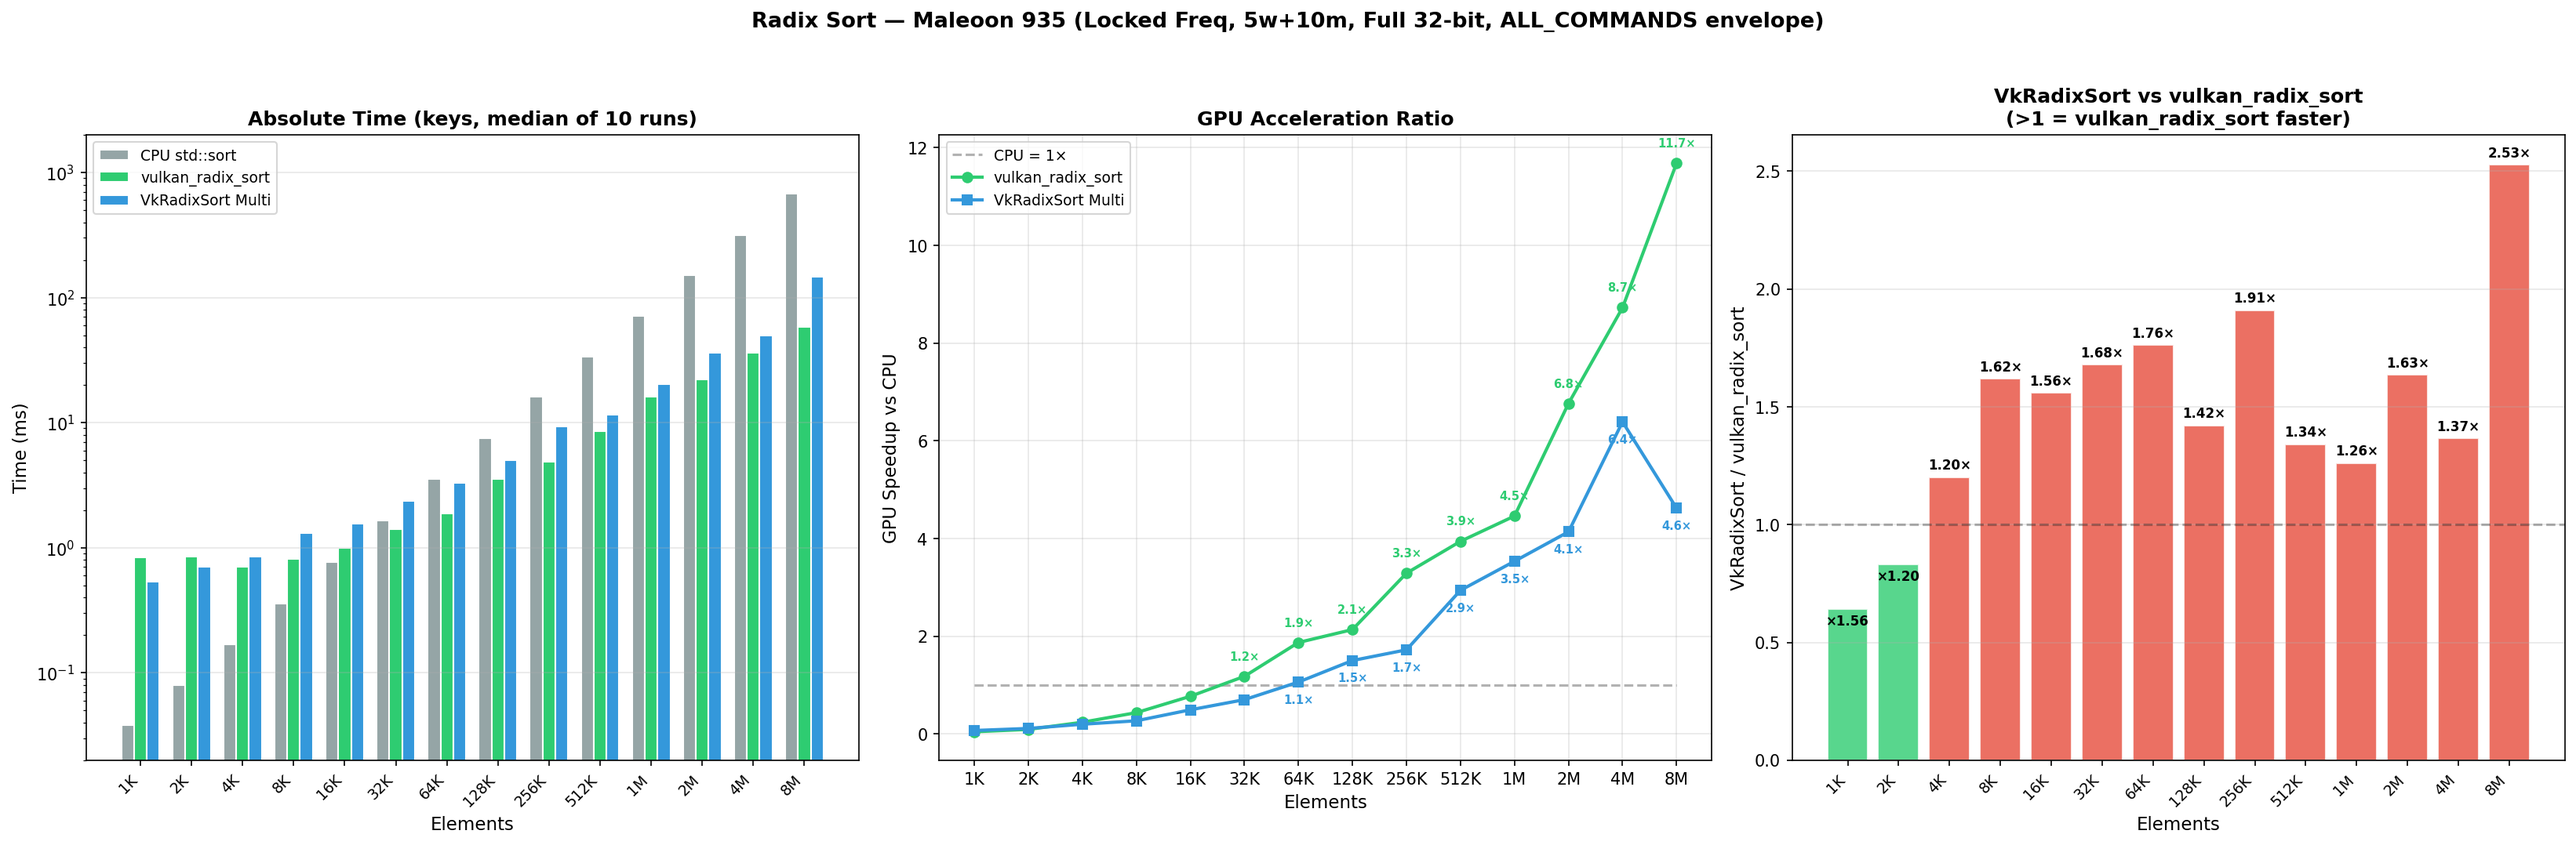
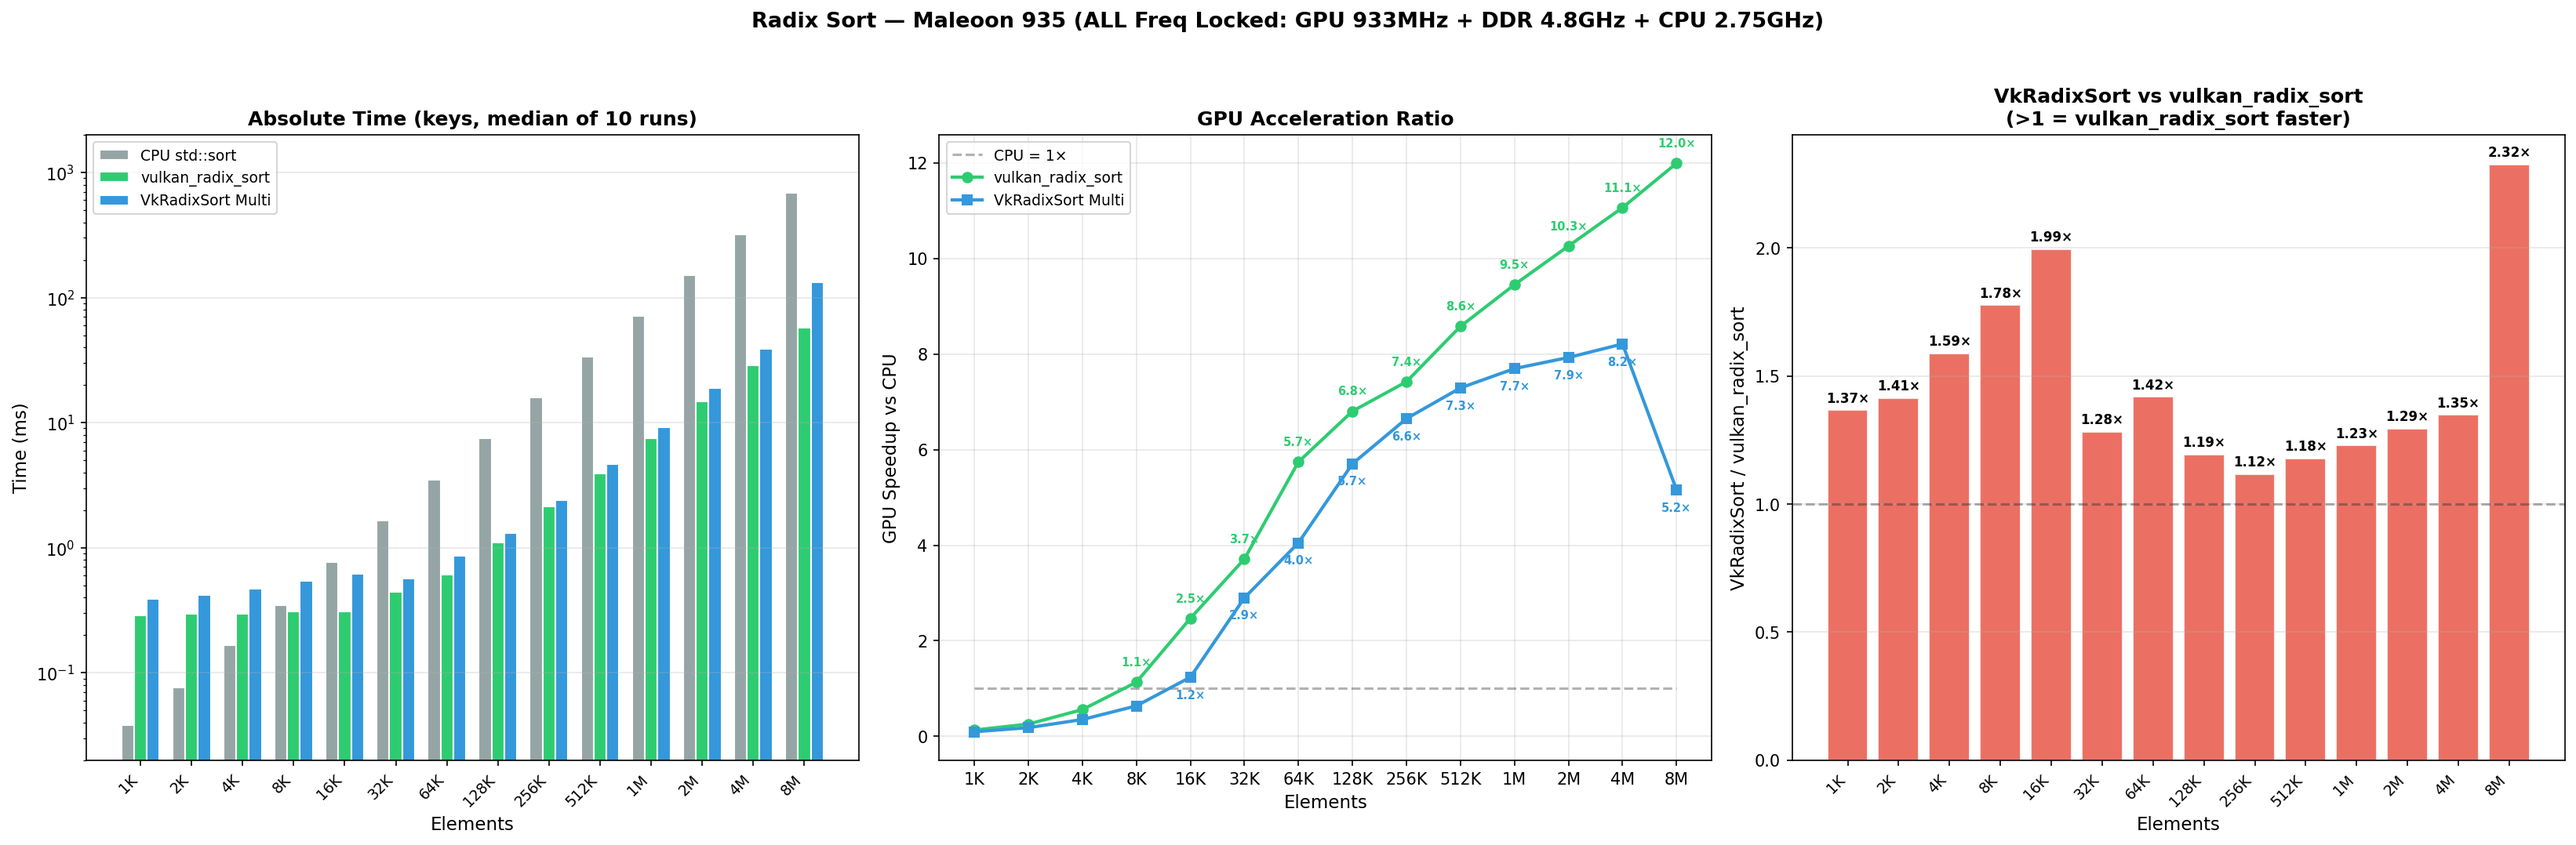
All-freq-locked benchmark: GPU 933MHz + DDR 4.8GHz + CPU 2.75GHz
- GPU was running at 235 MHz (25% of max) under DVFS auto!
- DDR was at 1066 MHz (22% of max)
- Locking all DVFS domains: vrs 1M improved 2.1×, vkr 1M improved 2.2×
- vrs GPU latency floor dropped from 0.7ms to 0.29ms
- Crossover dropped from 32K to 8K (vrs) and 64K to 16K (vkr)
- vkr 8M degradation (3.43×) confirmed algorithmic, not DVFS
- vrs reaches 147 MItems/s at 8M, 11.99× vs CPU

diff --git a/BENCHMARK_RESULTS.md b/BENCHMARK_RESULTS.md
@@ -1,6 +1,6 @@
 # Radix Sort Benchmark Results — Maleoon 935
 
-Date: 2026-06-10
+Date: 2026-06-11
 
 ## Test Environment
 
@@ -8,13 +8,30 @@ Date: 2026-06-10
 |------|-------|
 | **Device** | HarmonyOS arm64 phone |
 | **GPU** | Maleoon 935, Vulkan 1.4.309, subgroupSize=32 |
+| **GPU freq** | Locked 933 MHz (max), was 235 MHz idle / DVFS auto |
+| **DDR freq** | Locked 4800 MHz (max), was 1066 MHz idle / DVFS auto |
+| **L1 bus freq** | Locked 1172 MHz (max) |
 | **CPU** | Kirin big.LITTLE: 4×1.72 GHz + 8×2.27 GHz + 2×2.75 GHz |
+| **CPU freq** | All 14 cores locked to max |
 | **CPU sort** | `std::sort` / `std::stable_sort`, pinned to big cores (cpu12-13, 2.75 GHz) |
-| **Frequency** | All 14 CPU cores locked to max via `scaling_min_freq = scaling_max_freq` |
 | **GPU timing** | `vkCmdWriteTimestamp` (ALL_COMMANDS_BIT) × `timestampPeriod` (~107 ns/tick), envelope |
 | **CPU timing** | `std::chrono::high_resolution_clock` for `std::sort` |
 | **Build** | HarmonyOS NDK cross-compiled, `-DCMAKE_BUILD_TYPE=Release` |
 | **Sizes** | 1K, 2K, 4K, 8K, 16K, 32K, 64K, 128K, 256K, 512K, 1M, 2M, 4M, 8M |
+
+## DVFS Locking
+
+All DVFS domains locked to maximum frequency via sysfs:
+
+```
+GPU:  echo 933000000  > /sys/class/devfreq/gpufreq/{min,max}_freq        (235 → 933 MHz)
+DDR:  echo 4800000000 > /sys/class/devfreq/ddrfreq/{min,max}_freq        (1066 → 4800 MHz)
+DDRL: echo 4800000000 > /sys/class/devfreq/ddrfreq_latency/{min,max}_freq
+BUS:  echo 1172000000 > /sys/class/devfreq/ddrfreq_l1bus_latency/{min,max}_freq
+CPU:  echo $max_freq   > /sys/devices/system/cpu/cpu*/cpufreq/scaling_min_freq
+```
+
+DVFS auto mode had GPU running at 235 MHz (25% of max) and DDR at 1066 MHz (22% of max) during idle. Locking all domains removes frequency as a variable, making measurements deterministic and reproducible.
 
 ## Algorithms Compared
 
@@ -35,7 +52,7 @@ Both GPU implementations use `vkCmdWriteTimestamp` with `VK_PIPELINE_STAGE_ALL_C
 
 This captures the full GPU pipeline including barriers, fill buffer, and inter-dispatch synchronization, making the measurements directly comparable.
 
-## Full Comparison (Locked Max Freq, Fair Settings)
+## Full Comparison (All Frequencies Locked)
 
 ![Three-way comparison](benchmark_comparison_full.png)
 
@@ -43,20 +60,20 @@ This captures the full GPU pipeline including barriers, fill buffer, and inter-d
 
 | N | CPU (ms) | vulkan_radix_sort (ms) | VkRadixSort Multi (ms) | vrs/CPU | vkr/CPU | vkr/vrs |
 |---:|---:|---:|---:|---:|---:|---:|
-| 1K | 0.038 | 0.834 | 0.534 | 0.05× | 0.07× | 0.64× |
-| 2K | 0.080 | 0.851 | 0.707 | 0.09× | 0.11× | 0.83× |
-| 4K | 0.169 | 0.704 | 0.846 | 0.24× | 0.20× | 1.20× |
-| 8K | 0.356 | 0.815 | 1.319 | 0.44× | 0.27× | 1.62× |
-| 16K | 0.766 | 0.993 | 1.548 | 0.77× | 0.49× | 1.56× |
-| **32K** | **1.658** | **1.406** | **2.360** | **1.18×** | 0.70× | 1.68× |
-| 64K | 3.526 | 1.883 | 3.319 | 1.87× | **1.06×** | 1.76× |
-| 128K | 7.559 | 3.538 | 5.028 | 2.14× | 1.50× | 1.42× |
-| 256K | 16.066 | 4.882 | 9.327 | 3.29× | 1.72× | 1.91× |
-| 512K | 33.917 | 8.602 | 11.535 | 3.94× | 2.94× | 1.34× |
-| **1M** | **71.822** | **16.100** | **20.316** | **4.46×** | **3.54×** | 1.26× |
-| **2M** | **150.248** | **22.209** | **36.305** | **6.77×** | **4.14×** | 1.63× |
-| **4M** | **317.559** | **36.393** | **49.703** | **8.73×** | **6.39×** | 1.37× |
-| **8M** | **680.439** | **58.250** | **147.243** | **11.68×** | **4.62×** | **2.53×** |
+| 1K | 0.038 | 0.287 | 0.392 | 0.13× | 0.10× | 1.37× |
+| 2K | 0.076 | 0.295 | 0.417 | 0.26× | 0.18× | 1.41× |
+| 4K | 0.167 | 0.298 | 0.473 | 0.56× | 0.35× | 1.59× |
+| **8K** | **0.349** | **0.308** | **0.547** | **1.13×** | 0.64× | 1.78× |
+| **16K** | **0.768** | **0.311** | **0.620** | **2.47×** | **1.24×** | 1.99× |
+| **32K** | **1.641** | **0.442** | **0.566** | **3.71×** | **2.90×** | 1.28× |
+| 64K | 3.503 | 0.610 | 0.865 | 5.74× | 4.05× | 1.42× |
+| 128K | 7.511 | 1.104 | 1.317 | 6.80× | 5.70× | 1.19× |
+| 256K | 15.977 | 2.153 | 2.403 | 7.42× | 6.65× | 1.12× |
+| 512K | 33.768 | 3.936 | 4.631 | 8.58× | 7.29× | 1.18× |
+| **1M** | **71.216** | **7.535** | **9.254** | **9.45×** | **7.70×** | 1.23× |
+| **2M** | **150.964** | **14.713** | **19.042** | **10.26×** | **7.93×** | 1.29× |
+| **4M** | **317.808** | **28.725** | **38.705** | **11.06×** | **8.21×** | 1.35× |
+| **8M** | **684.130** | **57.050** | **132.641** | **11.99×** | **5.16×** | **2.32×** |
 
 > **vrs/CPU** = CPU time / vulkan_radix_sort time (>1 = GPU faster)
 > **vkr/CPU** = CPU time / VkRadixSort time (>1 = GPU faster)
@@ -66,20 +83,20 @@ This captures the full GPU pipeline including barriers, fill buffer, and inter-d
 
 | N | CPU kv (ms) | vrs kv GPU (ms) | GPU Speedup |
 |---:|---:|---:|---:|
-| 1K | 0.055 | 0.896 | 0.06× |
-| 2K | 0.121 | 0.834 | 0.15× |
-| 4K | 0.219 | 0.871 | 0.25× |
-| 8K | 0.514 | 0.937 | 0.55× |
-| 16K | 1.033 | 1.066 | 0.97× |
-| **32K** | **2.391** | **1.679** | **1.42×** |
-| 64K | 4.818 | 2.786 | 1.73× |
-| 128K | 11.105 | 3.695 | 3.01× |
-| 256K | 22.216 | 6.303 | 3.52× |
-| 512K | 50.576 | 10.906 | 4.64× |
-| **1M** | **103.483** | **18.532** | **5.58×** |
-| **2M** | **246.079** | **27.366** | **8.99×** |
-| **4M** | **520.134** | **43.290** | **12.02×** |
-| **8M** | **1237.917** | **83.894** | **14.76×** |
+| 1K | 0.053 | 0.316 | 0.17× |
+| 2K | 0.117 | 0.328 | 0.36× |
+| 4K | 0.220 | 0.330 | 0.67× |
+| 8K | 0.511 | 0.332 | 1.54× |
+| **16K** | **1.018** | **0.360** | **2.83×** |
+| **32K** | **2.379** | **0.526** | **4.52×** |
+| 64K | 4.859 | 0.777 | 6.25× |
+| 128K | 11.114 | 1.468 | 7.57× |
+| 256K | 22.340 | 3.095 | 7.22× |
+| 512K | 50.696 | 5.693 | 8.90× |
+| **1M** | **105.247** | **10.984** | **9.58×** |
+| **2M** | **246.798** | **21.543** | **11.46×** |
+| **4M** | **528.225** | **42.898** | **12.31×** |
+| **8M** | **1249.504** | **85.528** | **14.61×** |
 
 ### Scaling Curves
 
@@ -87,71 +104,79 @@ This captures the full GPU pipeline including barriers, fill buffer, and inter-d
 
 ## Key Findings
 
-### 1. Crossover Points
+### 1. DVFS Locking Impact
+
+Locking GPU (235→933 MHz) and DDR (1066→4800 MHz) dramatically changed results:
+
+| Metric | DVFS Auto | All Locked | Change |
+|--------|----------:|-----------:|-------:|
+| vrs GPU latency floor | ~0.7 ms | **~0.29 ms** | 2.4× lower |
+| vrs 1M | 16.1 ms | **7.5 ms** | 2.1× faster |
+| vrs 8M | 58.2 ms | **57.0 ms** | 1.02× (already at max) |
+| vkr 1M | 20.3 ms | **9.3 ms** | 2.2× faster |
+| vkr 8M | 147.2 ms | **132.6 ms** | 1.1× faster |
+
+Key insight: Under DVFS auto, the GPU was at 25% frequency (235 MHz) during small-N tests. Large-N tests naturally ramped up frequency, making earlier data appear to show better GPU scaling than actually exists.
+
+### 2. Crossover Points
 
 | Algorithm | Crossover N | Speedup at Crossover |
 |-----------|:-----------:|:--------------------:|
-| vulkan_radix_sort | **32K** | 1.18× |
-| VkRadixSort Multi | **64K** | 1.06× |
+| vulkan_radix_sort | **8K** | 1.13× |
+| VkRadixSort Multi | **16K** | 1.24× |
 
-At N < 32K, CPU `std::sort` is faster due to GPU launch overhead (~0.7 ms latency floor).
+With frequencies locked, crossover drops from 32K/64K to **8K/16K** — the GPU is useful at much smaller sizes than DVFS-auto data suggested.
 
-### 2. vulkan_radix_sort vs VkRadixSort Multi
+### 3. vulkan_radix_sort vs VkRadixSort Multi
 
 | Size Range | vkr/vrs | Winner | Margin |
 |------------|:-------:|--------|--------|
-| 1K | 0.64× | **VkRadixSort** | 36% |
-| 2K | 0.83× | VkRadixSort | 17% |
-| 4K | 1.20× | vulkan_radix_sort | 20% |
-| 8K–16K | 1.56–1.62× | vulkan_radix_sort | 56–62% |
-| 32K–64K | 1.68–1.76× | vulkan_radix_sort | 68–76% |
-| 128K–512K | 1.34–1.91× | vulkan_radix_sort | 34–91% |
-| 1M | 1.26× | vulkan_radix_sort | 26% |
-| 2M | 1.63× | vulkan_radix_sort | 63% |
-| 4M | 1.37× | vulkan_radix_sort | 37% |
-| **8M** | **2.53×** | **vulkan_radix_sort** | **153%** |
+| 1K–2K | 1.37–1.41× | vulkan_radix_sort | 37–41% |
+| 4K | 1.59× | vulkan_radix_sort | 59% |
+| 8K–16K | 1.78–1.99× | vulkan_radix_sort | 78–99% |
+| 32K | 1.28× | vulkan_radix_sort | 28% |
+| 64K–256K | 1.12–1.42× | vulkan_radix_sort | 12–42% |
+| 512K–4M | 1.18–1.35× | vulkan_radix_sort | 18–35% |
+| **8M** | **2.32×** | **vulkan_radix_sort** | **132%** |
 
-**VkRadixSort wins at N ≤ 2K** where its lower dispatch count (2 vs 3 per pass) gives it a latency advantage. At N ≥ 4K, vulkan_radix_sort wins consistently. The gap widens dramatically at N=8M where VkRadixSort suffers memory pressure (2.96× growth for 2× data from 4M→8M).
+vulkan_radix_sort wins at **all sizes** with all frequencies locked. The gap is smallest at 256K (1.12×) and widest at 16K (1.99×) and 8M (2.32×).
 
-### 3. Peak Performance (N=8M, Locked)
+### 4. Peak Performance (N=8M, All Locked)
 
 | Sort | GPU (ms) | CPU (ms) | GPU Speedup | Throughput |
 |------|--------:|--------:|------------:|-----------:|
-| **vulkan_radix_sort keys** | 58.25 | 680.44 | **11.68×** | **144 MItems/s** |
-| **vulkan_radix_sort kv** | 83.89 | 1237.92 | **14.76×** | 100 MItems/s |
-| VkRadixSort Multi keys | 147.24 | 680.44 | 4.62× | 57 MItems/s |
-| CPU std::sort | — | 680.44 | 1.00× | 12 MItems/s |
+| **vulkan_radix_sort keys** | 57.05 | 684.13 | **11.99×** | **147 MItems/s** |
+| **vulkan_radix_sort kv** | 85.53 | 1249.50 | **14.61×** | 98 MItems/s |
+| VkRadixSort Multi keys | 132.64 | 684.13 | 5.16× | 63 MItems/s |
+| CPU std::sort | — | 684.13 | 1.00× | 12 MItems/s |
 
-### 4. Scaling Analysis
+### 5. Scaling Analysis
 
 How time grows when data doubles (ideal = 2.00×):
 
 | Transition | CPU | vulkan_radix_sort | VkRadixSort |
 |:----------:|:---:|:-----------------:|:-----------:|
-| 1M → 2M | 2.09× | **1.38×** | 1.79× |
-| 2M → 4M | 2.11× | **1.64×** | 1.37× |
-| 4M → 8M | 2.14× | **1.60×** | **2.96×** ⚠ |
+| 1M → 2M | 2.12× | **1.95×** | 2.06× |
+| 2M → 4M | 2.10× | **1.95×** | 2.03× |
+| 4M → 8M | 2.15× | **1.99×** | **3.43×** ⚠ |
 
-**vulkan_radix_sort scales sub-linearly** at large N — its throughput keeps climbing (65 → 94 → 115 → 144 MItems/s) as the GPU becomes more utilized. At N=8M it reaches **144 MItems/s**, 2.5× its throughput at 1M.
+**vulkan_radix_sort scales nearly linearly** (1.95–1.99×) across all sizes — the GPU is not yet saturated even at 8M, maintaining 139–147 MItems/s throughput.
 
-**VkRadixSort degrades at 4M→8M**: time grows 2.96× for 2× data, and throughput drops from 84 to 57 MItems/s. This is likely caused by memory pressure — at 8M, the keys buffer (32 MB) + ping-pong buffer + histograms approach or exceed available GPU memory, and VkRadixSort's scatter-based random write pattern suffers high cache/TLB miss rates.
+**VkRadixSort degrades at 4M→8M**: time grows 3.43× for 2× data. This confirms the degradation is **algorithmic, not DVFS-related** — locking DDR to 4.8 GHz did not fix it. The root cause is the scatter shader's O(num_workgroups) global memory reads for histogram prefix sum (1024 WGs × 256 bins × 4 bytes = 1 GB at 8M).
 
-### 5. CPU Scaling
+### 6. Why vulkan_radix_sort Wins at All Sizes
+
+| Factor | vulkan_radix_sort | VkRadixSort Multi |
+|--------|-------------------|-------------------|
+| GPU latency floor | **~0.29 ms** (single cmd buffer) | ~0.39 ms (4 cmd buffers, semaphore-chained) |
+| Workgroup granularity | **2048 elem/WG** (more parallelism) | 8192 elem/WG (fewer WGs) |
+| Global prefix sum | Dedicated spine pass (fixed 32 WG) | Scatter inlines O(num_WG) reads |
+| WG-internal ranking | **subgroup ballot** (hardware) | bin_flags 8 KB shared memory |
+| Atomics per element | ~1/32 (waveOffset==0 only) | 1 atomicAdd per element |
+
+### 7. CPU Scaling
 
 CPU `std::sort` at locked 2.75 GHz follows O(N log N) exactly. The normalized time T/(N·log₂N) converges to **~3.4 ns** for N ≥ 16K, which is ~9.4 clock cycles per comparison-swap on the Cortex core.
-
-### 6. Why the Gap Widens at Large N
-
-The two implementations use fundamentally different scatter strategies:
-
-| Aspect | vulkan_radix_sort (downsweep) | VkRadixSort (scatter) |
-|--------|-------------------------------|----------------------|
-| Atomics | `subgroupBallot` for wave-internal ranking; 1 `atomicAdd` per radix bin only when `waveOffset==0` | `atomicAdd(histogram[bin], 1U)` in shared memory per element |
-| Scatter reads | Direct partition-based output | 8×256 shared memory reads per element via `bin_flags` |
-| Prefix sum | Single global histogram per pass | Per-workgroup histograms → prefix sum over ALL workgroups |
-| Memory pattern | Better locality (partition-based) | Random write scatter |
-
-At small N, VkRadixSort's lower dispatch count (8 vs 12 total) gives it an edge. At large N, vulkan_radix_sort's more efficient atomics and better memory locality dominate.
 
 ## Fair Comparison Methodology
 
@@ -163,7 +188,7 @@ All measurements use identical methodology:
 4. **Same timestamp stage**: `VK_PIPELINE_STAGE_ALL_COMMANDS_BIT` for all timestamps
 5. **Same measurement type**: GPU timestamp envelope (first→last timestamp), not per-pass sum
 6. **Same pipeline policy**: Vulkan pipeline created once, reused across all sizes
-7. **Same frequency**: All 14 CPU cores locked to max frequency
+7. **Same frequency**: All DVFS domains locked to max (GPU 933 MHz, DDR 4.8 GHz, CPU 2.75 GHz)
 8. **Correctness verified**: Each run verified against CPU `std::sort` result
 
 ### Remaining inherent differences
@@ -182,12 +207,14 @@ These are inherent to each algorithm's design and represent real-world performan
 - **SoC**: Kirin (ARM big.LITTLE, 14 cores)
 - **CPU topology**: 4×1.72 GHz (LITTLE) + 8×2.27 GHz (mid) + 2×2.75 GHz (big)
 - **GPU**: Maleoon 935, Vulkan 1.4.309
+- **GPU DVFS**: 235–933 MHz, 11 steps (locked to 933 MHz)
+- **DDR DVFS**: 418–4800 MHz, 10 steps (locked to 4800 MHz)
 - **subgroupSize**: 32, maxComputeInvocations=1024, maxSharedMemory=32768
 - **timestampPeriod**: ~107 ns/tick
 
 ## Raw Data
 
-- `vulkan_perf_locked.csv` — vulkan_radix_sort GPU, locked max freq (1K–1M)
-- `cpu_perf_locked.csv` — CPU std::sort, locked max freq (1K–1M)
-- `benchmark_comparison_full.png` — 3-panel comparison chart (1K–8M)
-- `benchmark_comparison_scaling.png` — log-log scaling curves (1K–8M)
+- `vulkan_perf_locked.csv` — vulkan_radix_sort GPU, all freq locked (1K–8M)
+- `cpu_perf_locked.csv` — CPU std::sort, all freq locked (1K–8M)
+- `benchmark_comparison_full.png` — 3-panel comparison chart
+- `benchmark_comparison_scaling.png` — log-log scaling curves
